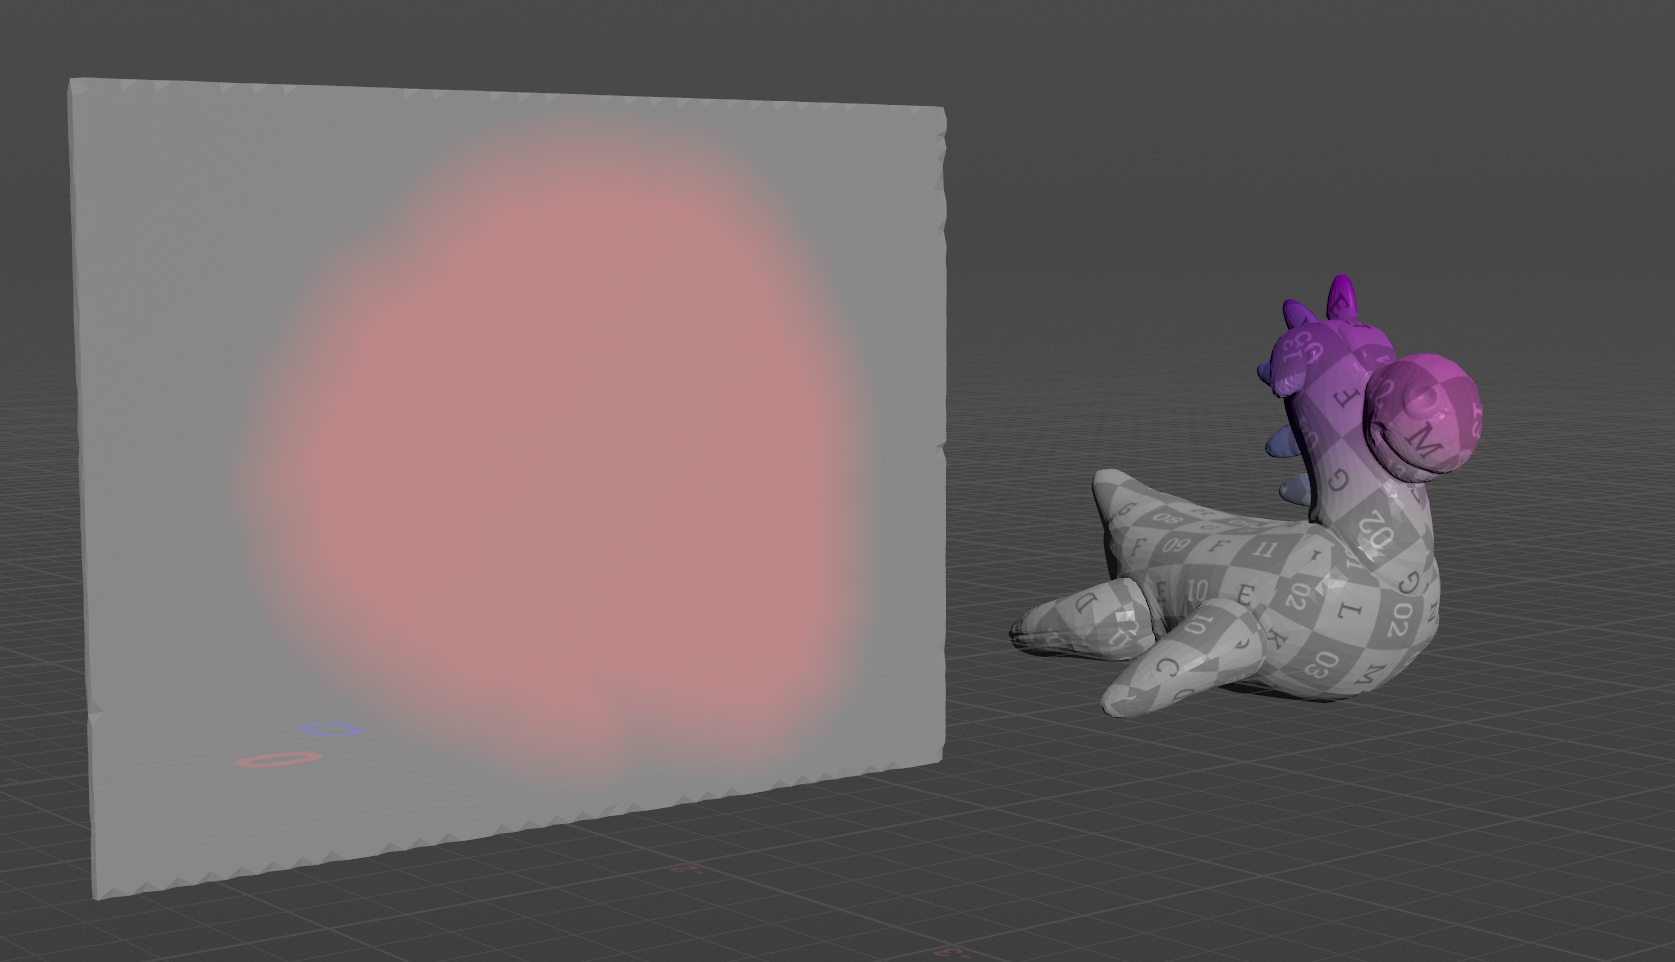
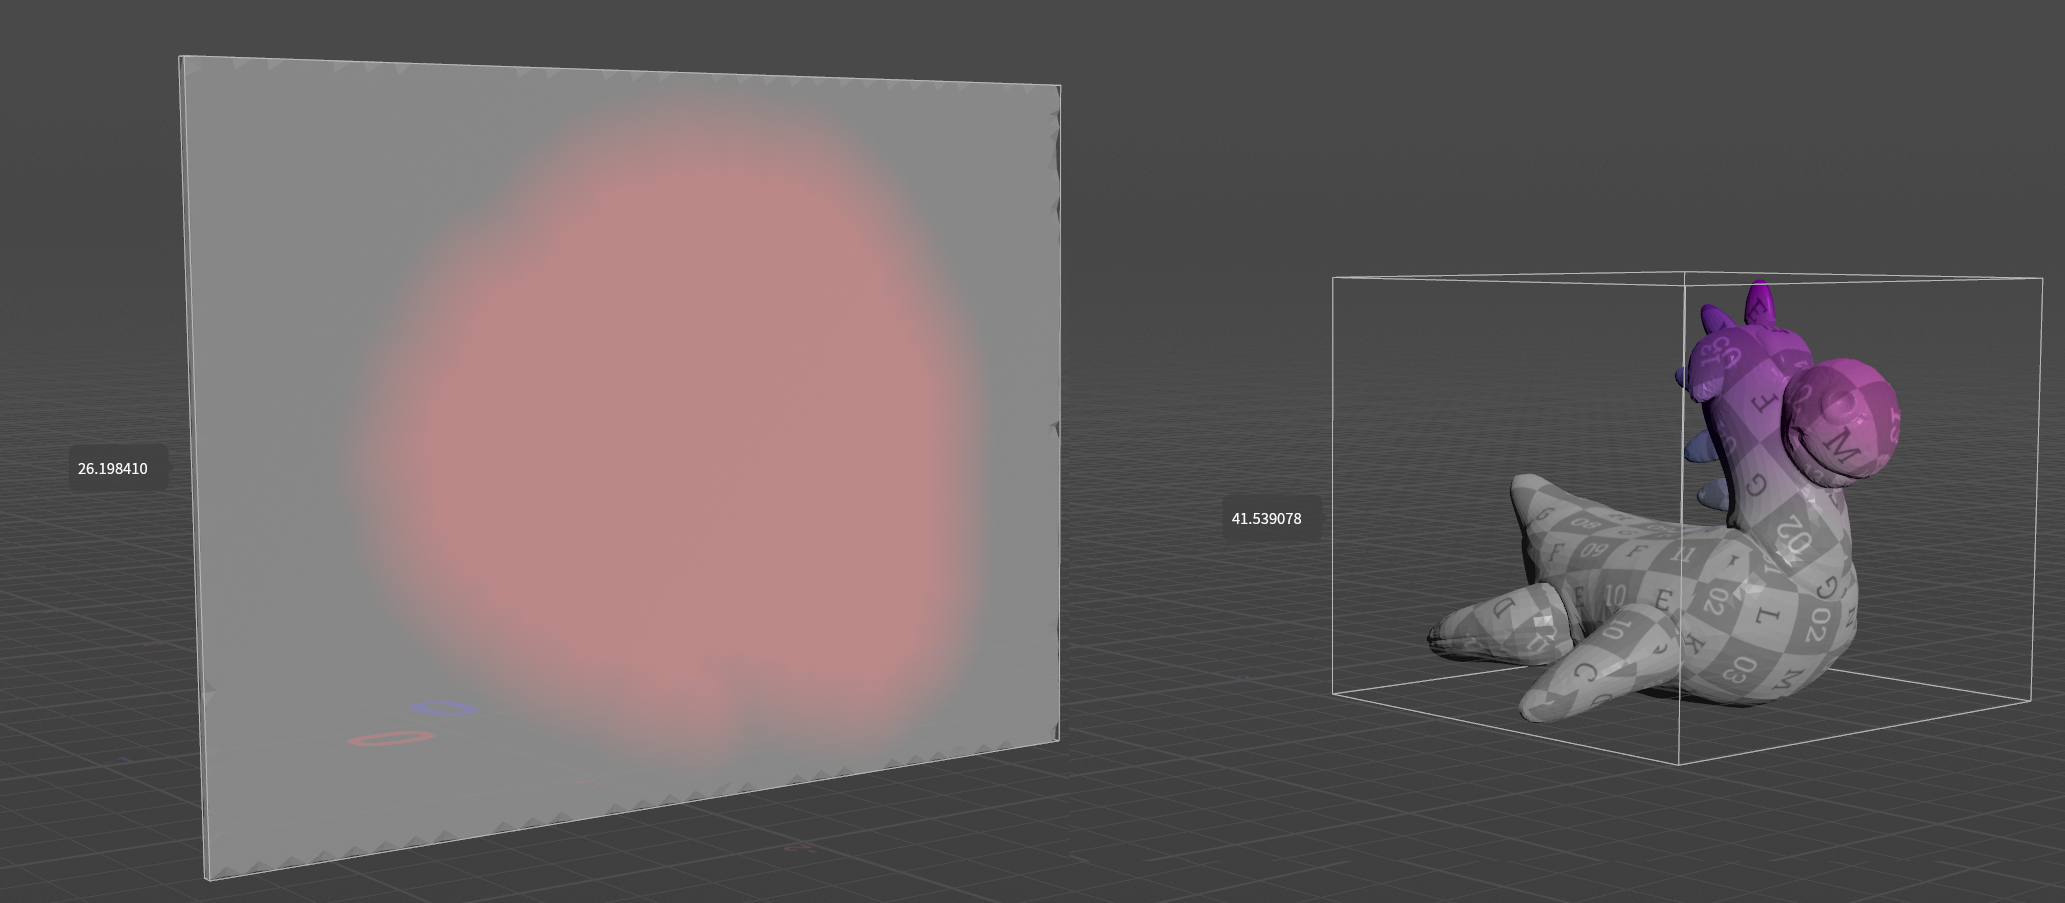
Show displacement ranges and explain material instance values

diff --git a/_posts/2026-10-03-linear-deformation-vertex-colors-wpo.md b/_posts/2026-10-03-linear-deformation-vertex-colors-wpo.md
@@ -80,7 +80,9 @@ The `× 100` converts metres to Unreal's centimetres. It assumes the mesh is exp
 
 Export the **rest mesh** with its baked colors. In Unreal, import those vertex colors rather than ignoring or overriding them.
 
-![Houdini viewport showing baked vertex colors on the wall and rubber toy meshes]({{ '/assets/images/blog/linear-deformation-wpo/houdini-baked-vertex-colors.png' | relative_url }})
+![Houdini viewport showing baked vertex colors and maximum displacement values for the wall and rubber toy meshes]({{ '/assets/images/blog/linear-deformation-wpo/houdini-baked-vertex-colors.png' | relative_url }})
+
+*The displayed values—26.198410 for the wall and 41.539078 for the toy—are each mesh's maximum displacement in centimetres (`max_diff_val_unreal` in the wrangle above). Enter the corresponding value into the `maxDistance` parameter of that mesh's Material Instance.*
 
 ## Unreal
 
